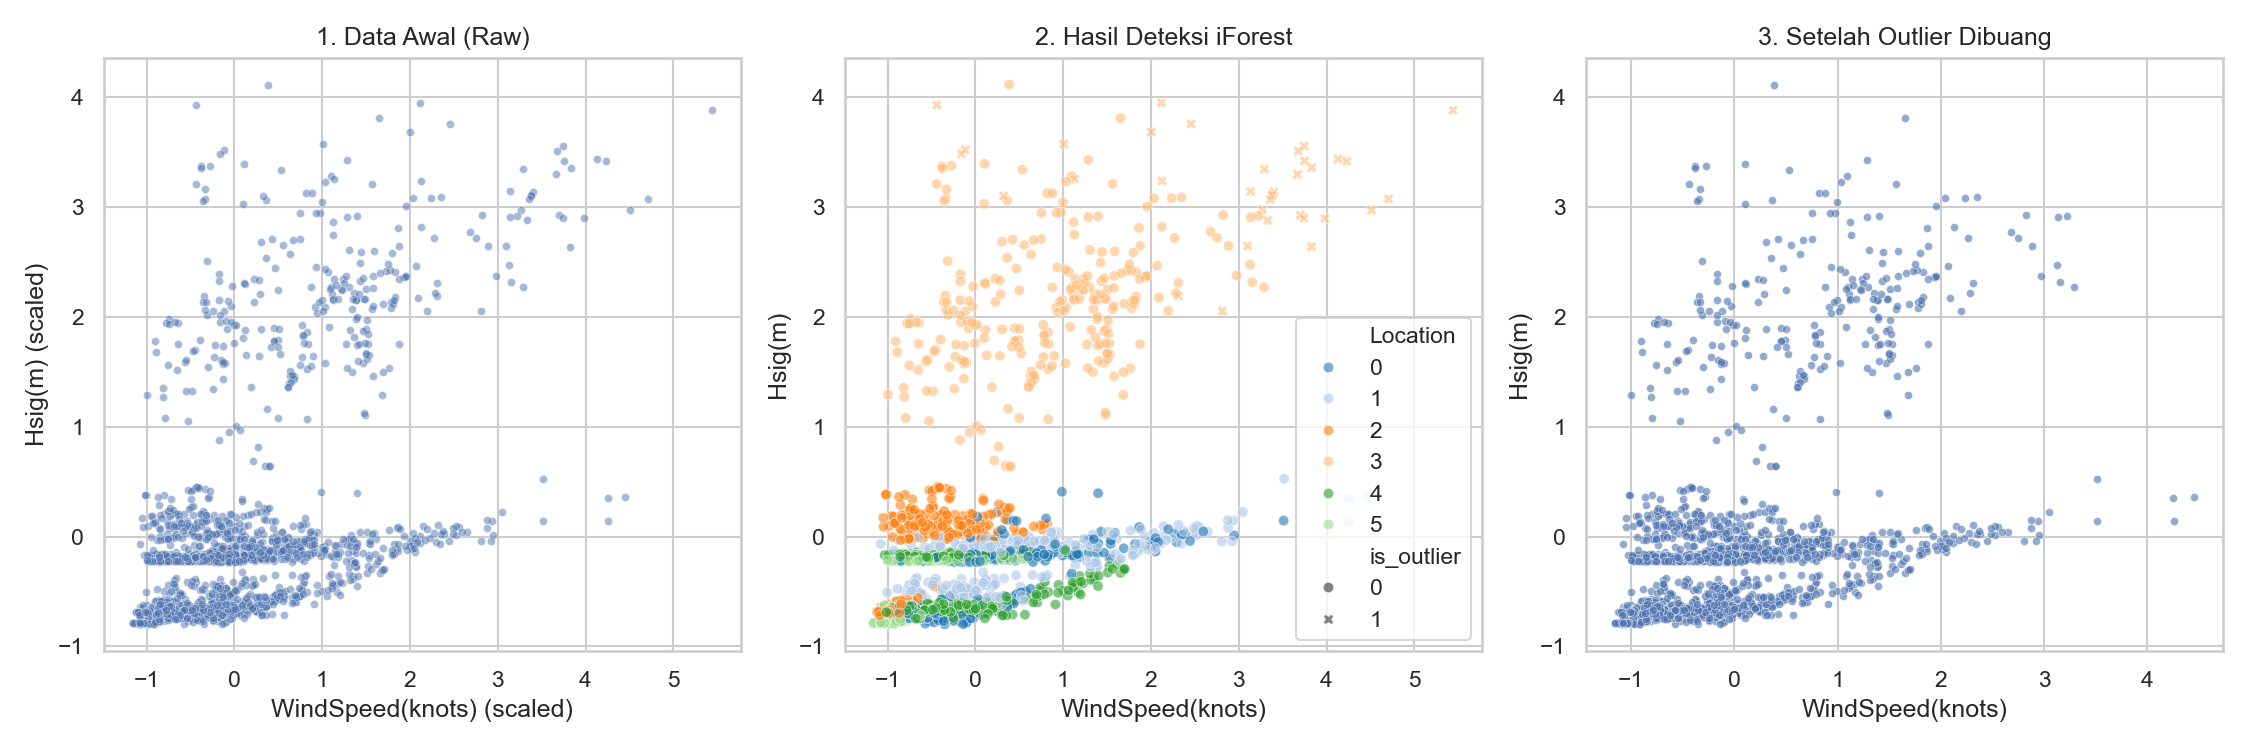
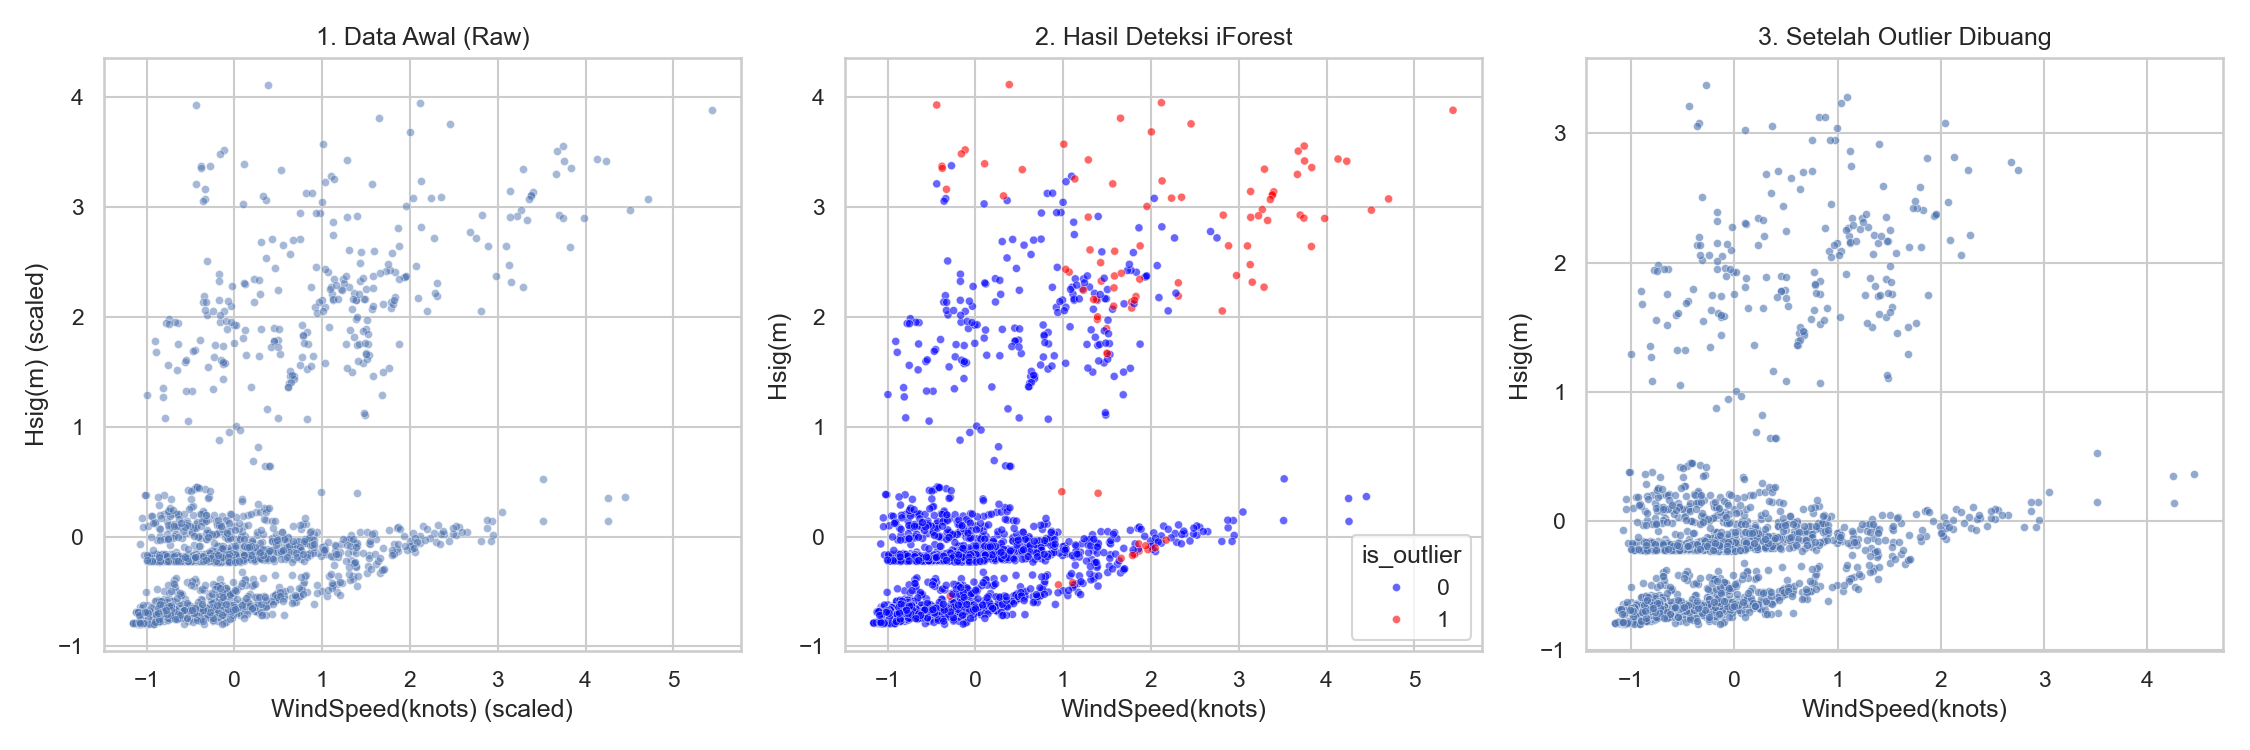
Refactor outlier detection and evaluation process;

diff --git a/gelombang/src/evaluator.py b/gelombang/src/evaluator.py
@@ -1,4 +1,4 @@
-from typing import Tuple
+from typing import Tuple, Dict
 import pandas as pd
 from sklearn.tree import DecisionTreeClassifier
 from sklearn.model_selection import train_test_split
@@ -7,46 +7,91 @@ import matplotlib.pyplot as plt
 import seaborn as sns
 
 class Evaluator:
+    """
+    Evaluates data quality improvement by comparing classifier performance 
+    between raw (dirty) data and cleaned (after outlier removal) data.
+
+    Journal Objective:
+    - Evaluate effectiveness of preprocessing method (outlier detection).
+    - Model performance is NOT the focus; the comparison is.
+    """
+
     def __init__(self, df_labeled: pd.DataFrame, target_col: str = 'Location'):
         self.df = df_labeled.copy()
         self.target_col = target_col
 
-    def _train_dt(self, X: pd.DataFrame, y: pd.Series, random_state: int = 42) -> float:
-        X_train, X_test, y_train, y_test = train_test_split(X, y, test_size=0.3, random_state=random_state)
-        dt = DecisionTreeClassifier(max_depth=7, random_state=random_state)
+    def _train_dt(
+        self, 
+        X: pd.DataFrame, 
+        y: pd.Series, 
+        random_state: int = 42,
+        max_depth: int = None      # sesuai jurnal: tidak dibatasi
+    ) -> Tuple[float, pd.Series, pd.Series]:
+        """
+        Train a Decision Tree classifier.
+        Default max_depth=None (as per journal: unrestricted tree).
+        """
+        X_train, X_test, y_train, y_test = train_test_split(
+            X, y, test_size=0.3, random_state=random_state
+        )
+
+        dt = DecisionTreeClassifier(
+            max_depth=max_depth,
+            random_state=random_state
+        )
         dt.fit(X_train, y_train)
         preds = dt.predict(X_test)
         acc = accuracy_score(y_test, preds)
+
         return acc, y_test, preds
 
-    def compare_dirty_clean(self) -> dict:
-        # Dirty
+    def compare_dirty_clean(self) -> Dict:
+        """
+        Compare classification accuracy between:
+        - Dirty data (raw, with outliers)
+        - Clean data (outliers removed)
+
+        This is exactly what the journal evaluates:
+        whether preprocessing improves data quality.
+        """
+
+        # RAW (Dirty)
         X_dirty = self.df.drop(columns=[self.target_col, 'is_outlier'])
         y_dirty = self.df[self.target_col]
 
-        # Clean
+        # CLEAN
         df_clean = self.df[self.df['is_outlier'] == 0]
         X_clean = df_clean.drop(columns=[self.target_col, 'is_outlier'])
         y_clean = df_clean[self.target_col]
 
+        # Train both
         acc_dirty, ytest_dirty, preds_dirty = self._train_dt(X_dirty, y_dirty)
         acc_clean, ytest_clean, preds_clean = self._train_dt(X_clean, y_clean)
 
         improvement = acc_clean - acc_dirty
 
-        print(f"Akurasi Data Kotor: {acc_dirty*100:.2f}%")
-        print(f"Akurasi Data Bersih: {acc_clean*100:.2f}%")
-        print(f"Peningkatan: {improvement*100:.2f}%")
+        print(f"Akurasi Data Kotor  : {acc_dirty*100:.2f}%")
+        print(f"Akurasi Data Bersih : {acc_clean*100:.2f}%")
+        print(f"Peningkatan         : {improvement*100:.2f}%")
 
-        # Save confusion matrices for further inspection
-        fig, axes = plt.subplots(1, 2, figsize=(10, 4))
-        sns.heatmap(confusion_matrix(ytest_dirty, preds_dirty), annot=True, fmt='d', ax=axes[0])
-        axes[0].set_title('Confusion Matrix - Dirty')
-        sns.heatmap(confusion_matrix(ytest_clean, preds_clean), annot=True, fmt='d', ax=axes[1])
-        axes[1].set_title('Confusion Matrix - Clean')
+        # ---- Confusion Matrix Visualization ----
+        fig, axes = plt.subplots(1, 2, figsize=(12, 5))
+
+        sns.heatmap(
+            confusion_matrix(ytest_dirty, preds_dirty),
+            annot=True, fmt='d', cmap='Blues', ax=axes[0]
+        )
+        axes[0].set_title("Confusion Matrix - Dirty")
+
+        sns.heatmap(
+            confusion_matrix(ytest_clean, preds_clean),
+            annot=True, fmt='d', cmap='Greens', ax=axes[1]
+        )
+        axes[1].set_title("Confusion Matrix - Clean")
+
         plt.tight_layout()
-        plt.savefig('conf_matrices.png', dpi=150)
-        print(' - Confusion matrices saved to conf_matrices.png')
+        plt.savefig("conf_matrices.png", dpi=150)
+        print(" - Confusion matrices saved to conf_matrices.png")
 
         return {
             'acc_dirty': acc_dirty,

diff --git a/gelombang/src/outlier_detector.py b/gelombang/src/outlier_detector.py
@@ -9,25 +9,48 @@ class OutlierDetector:
         self.target_col = target_col
         self.model: Optional[IsolationForest] = None
 
-    def detect(self, contamination: float = 0.02, n_estimators: int = 300, random_state: int = 42) -> pd.DataFrame:
+    def detect(
+        self, 
+        n_estimators: int = 300,
+        random_state: int = 42
+    ) -> pd.DataFrame:
+        """
+        Jurnal cyber tidak menggunakan contamination tetap.
+        Threshold ditentukan dari distribusi anomaly score:
+        
+        threshold = mean(score) + 2 * std(score)
+        """
         X = self.df.drop(columns=[self.target_col])
+
+        # train model tanpa contamination
         self.model = IsolationForest(
             n_estimators=n_estimators,
-            max_samples='auto',
-            contamination=contamination,
+            contamination='auto',   # auto hanya untuk decision_function, bukan mark outlier
             random_state=random_state,
             n_jobs=-1
         )
-        preds = self.model.fit_predict(X)
-        # fit_predict: -1 outlier, 1 normal
-        self.df['is_outlier'] = np.where(preds == -1, 1, 0)
-        # attach anomaly score
-        try:
-            self.df['anomaly_score'] = -self.model.decision_function(X)  # higher -> more anomalous
-        except Exception:
-            self.df['anomaly_score'] = np.nan
+
+        # fit model
+        self.model.fit(X)
+
+        # anomaly score (semakin tinggi semakin aneh)
+        scores = -self.model.decision_function(X)
+        self.df['anomaly_score'] = scores
+
+        # --- Sesuai jurnal: adaptive threshold ---
+        mu = scores.mean()
+        sigma = scores.std()
+        threshold = mu + 2 * sigma
+
+        print(f" - Adaptive Threshold (μ + 2σ): {threshold:.4f}")
+
+        # outlier: score di atas threshold
+        self.df['is_outlier'] = (scores > threshold).astype(int)
+
+        # laporan jumlah
         num_outliers = int(self.df['is_outlier'].sum())
-        print(f" - Detected {num_outliers} outliers ({num_outliers/len(self.df)*100:.2f}%)")
+        print(f" - Detected {num_outliers} outliers ({num_outliers / len(self.df) * 100:.2f}%)")
+
         return self.df
 
     def remove_outliers(self) -> pd.DataFrame:

diff --git a/gelombang/src/visualizer.py b/gelombang/src/visualizer.py
@@ -28,16 +28,7 @@ class Visualizer:
         # 2. Detected
         plt.subplot(1, 3, 2)
         plt.title('2. Hasil Deteksi iForest')
-        sns.scatterplot(    
-            data=df_sample,
-            x=x_col, y=y_col,
-            hue="Location",             # warna per lokasi
-            style="is_outlier",         # bentuk titik = outlier atau normal
-            palette="tab20",            # biar rapi warnanya
-            markers={0: "o", 1: "X"},   # X untuk outlier
-            alpha=0.6,
-            s=25
-        )
+        sns.scatterplot(data=df_sample, x=x_col, y=y_col, hue='is_outlier', palette={0:'blue',1:'red'}, alpha=0.6, s=15)
 
         # 3. Cleaned
         df_clean = df_sample[df_sample['is_outlier'] == 0]

diff --git a/gelombang/main.py b/gelombang/main.py
@@ -24,9 +24,9 @@ def main(filepath: str):
 
     # 3. Detect outliers
     detector = OutlierDetector(df_ready)
-    df_labeled = detector.detect(contamination=0.02)
+    df_labeled = detector.detect()
 
-    # 4. Visualize
+    # 4. Visualize  
     viz = Visualizer(df_labeled)
     viz.plot_outlier_steps()
 
